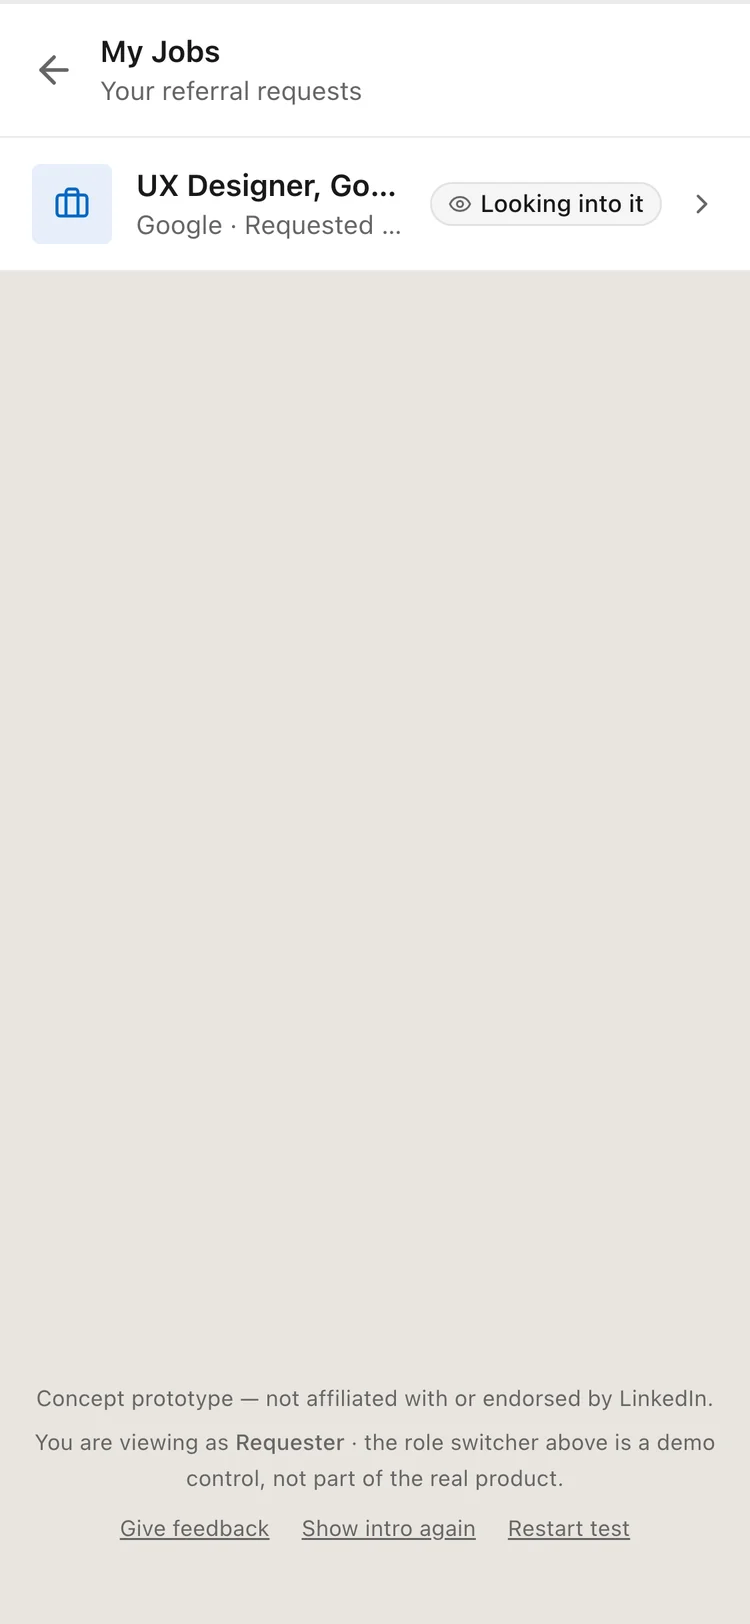
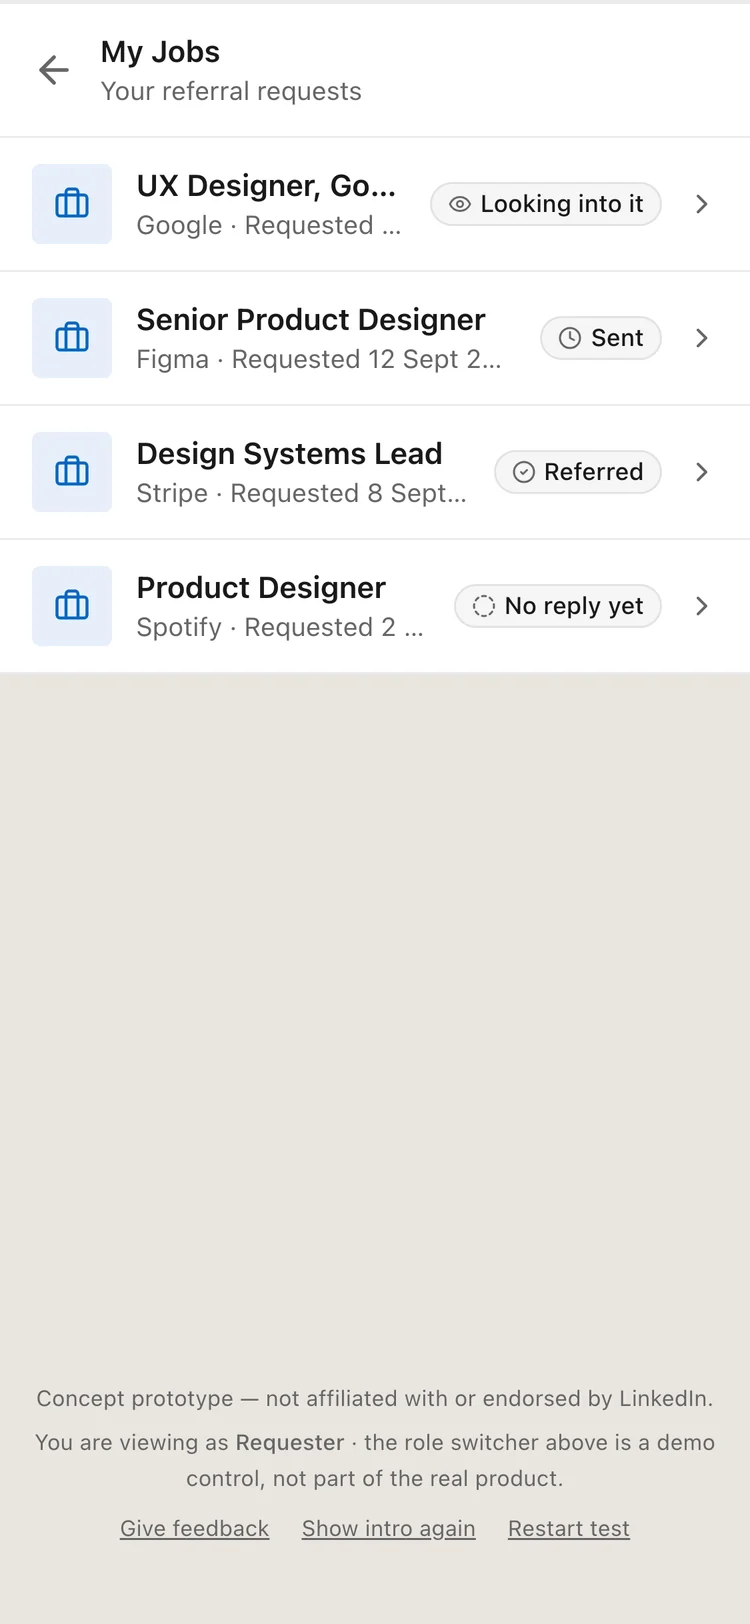
Show the update arriving, and four asks at four statuses
The case study jumped from the referrer posting an update to the requester
seeing it, without showing how it gets there. Adds the notifications screen
and the My Jobs list, reshot with four requests so "No reply yet" and the
other statuses appear side by side.

Changed region(s): [[0.0, 0.1539, 1.0, 0.431]]

diff --git a/work/referral-status.html b/work/referral-status.html
@@ -147,6 +147,24 @@
       </div>
     </figure>
 
+    <p>
+      One more thing had to be true for any of this to work: the update has to come
+      to you. If you have to go and look, you are still checking, and checking is just
+      a quieter version of chasing. So every update the referrer posts arrives as a
+      notification, and every ask you have made sits in one list.
+    </p>
+
+    <figure class="mocks mocks--2">
+      <div class="mock">
+        <div class="mock__frame"><div class="mock__screen"><div class="mock__bar" aria-hidden="true"><span></span></div><img src="../assets/work/referral/notifications.webp" width="750" height="1624" loading="lazy" alt="The notifications tab, with an unread update saying the referral is being looked into" /></div></div>
+        <p class="mock__label"><b>It comes to you.</b> The update lands where LinkedIn updates already land, so nobody has to remember to go and check.</p>
+      </div>
+      <div class="mock">
+        <div class="mock__frame"><div class="mock__screen"><div class="mock__bar" aria-hidden="true"><span></span></div><img src="../assets/work/referral/my-jobs.webp" width="750" height="1624" loading="lazy" alt="A list of all the referral requests the requester has sent, each with its current status" /></div></div>
+        <p class="mock__label"><b>All your asks in one place.</b> Most people ask several people at once. Four requests, four different statuses, and not one of them needs a follow-up message.</p>
+      </div>
+    </figure>
+
     <h2>Three decisions I would not have got right on the first pass</h2>
     <p>
       Building it myself meant I hit the edges I would have drawn right over in Figma.
